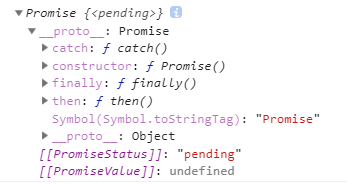
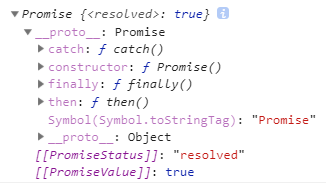
20190821

diff --git a/L-7 回调地狱与Promise.md b/L-7 回调地狱与Promise.md
@@ -131,10 +131,10 @@ sendAjax(url, data).then(function (res) {
 | Fulfilled | 任务执行完成并且成功的状态。    |
 | Rejected  | 任务完成并且失败的状态。       |
 
-* Promise的状态只可能从`Pending`状态转到`Fulfilled`状态或`Rejected`状态，且`不可逆向转换`。同时`Fulfilled`和`Rejected`状态也不能相互转换。
+* Promise的状态只可能从`pending`状态转到`fulfilled`状态或`rejected`状态，且`不可逆向转换`。同时`fulfilled`和`rejected`状态也不能相互转换。
 * Promise对象必须实现`then方法`，then是Promise规范的`核心`。
 * Promise的then方法`必须返回`一个Promise对象，同一个Promise对象可以调用`多个then方法`，并且回调的执行顺序跟它们的注册顺序一致。
-* then方法接收两个参数，分别为`成功回调`和`失败回调`。分别在`Padding转到Fulfilled`和`Padding转到Rejected`时调用。
+* then方法接收两个参数，分别为`成功回调`和`失败回调`。分别在`Padding转到fulfilled`和`Padding转到rejected`时调用。
 * 当使用了`catch方法`时，`then方法`可以不传`第二参数`，在当前链式操作中，`首个失败回调`会在catch中执行，并且中断后面的异步操作。
 
 ![avatar](/Promise/promises-流程图.png)
@@ -150,13 +150,106 @@ sendAjax(url, data).then(function (res) {
 
 ![avatar](/Promise/PromiseConstructor.png)
 
-> 所以需要使用new关键字实例化一个Promise实例。
+> 所以需要使用new关键字实例化一个Promise实例。并且传入一个匿名函数，匿名函数传入两个参数：`resolve（成功回调）`和`reject（失败回调）`。在函数体中进行逻辑判断，并使用resolve或reject触发对应的回调。
+
+ps：`resolve（成功回调）`和`reject（失败回调）`的名称可以自行定义。
 ```js
 let p = new Promise(function (resolve, reject) {
-    
+    if (true) {
+        resolve(true);
+    }else{
+        reject(false);
+    }
 });
 console.log(p);
 ```
-输出如下：
+上面就是Promise的简单使用，当使用resolve回调方法时，Promise对象的状态便切换到resolved（fulfilled，成功的状态）。输出如下：
 
 ![avatar](/Promise/PromiseObject.png)
+
+上面方法仍有局限性。比如通常封装ajax请求的方法，都需要向函数中传入url和数据集，实际效果如下：
+```js
+let url = 'http://127.0.0.1:8000/phpserver';
+let p = new Promise(function (resolve, reject) {
+    // 这里打印的url是直接访问父级作用域的变量
+    console.log(url);
+    $.ajax({
+        url: url,
+        type: 'POST',
+        dataType: "json",
+        data : {},
+        success: function(res){
+            resolve(res);
+        },
+        error: function (res) {
+            reject(res);
+        }
+    });
+});
+```
+上面这种方式传递参数，在函数体内直接访问父级作用域中的变量。十分不方便，而且容易因为父级作用域中的变量污染而影响到实际的逻辑处理。可以使用以下方式封装：
+```js
+function sendAjax(url) {
+    // 这里访问的url是调用函数时传入的参数
+    console.log(url);
+    // 使用return返回一个Promise实例，与直接对变量赋值Promise实例是一样的，外部使用变量接收即可。
+    return new Promise(function (resolve, reject) {
+        $.ajax({
+            url: url,
+            type: 'POST',
+            dataType: "json",
+            data : {},
+            success: function(res){
+                resolve(res);
+            },
+            error: function (res) {
+                reject(res);
+            }
+        });
+    });
+}
+let p = sendAjax('http://127.0.0.1:8000/phpserver');
+console.log(p);         // 这里打印Promise对象时，异步操作仍未完成，所以状态是pending。
+```
+![avatar](/Promise/1.png)
+
+* 下面的代码示例，都使用上面封装的这个发送ajax请求的Promise对象。
+### then方法
+> Promise.prototype.then方法接收两个回调函数作为参数，第一个为resolve（解决/成功）的回调，第二个为reject（拒绝/失败）的回调。两个参数都可不传，不传则不会执行对应的回调体。
+```js
+let p = sendAjax('http://127.0.0.1:8000/phpserver');
+p.then(function (cbData) {
+    console.log(cbData);
+}, function (cbData) {
+    console.log(cbData);
+});
+```
+解决（成功）的结果：
+
+![avatar](/Promise/2.png)
+
+模拟ajax请求失败时，拒绝（失败）的结果：
+
+![avatar](/Promise/3.png)
+
+如果不需要处理失败的回调，上面代码可以简化成如下：
+```js
+let p = sendAjax('http://127.0.0.1:8000/phpserver');
+p.then(function (cbData) {
+    console.log(cbData);
+});
+```
+### then方法的链式调用
+> 在Promise.prototype.then方法处理回调结束时，返回另一个Promise对象，这个对象可以调用下一个then方法，形成链式调用。如下：
+```js
+let p = sendAjax('http://127.0.0.1:8000/phpserver');
+p.then(function (cbData) {
+    console.log(cbData);
+    // 此处返回下一次ajax请求的Promise对象
+    return sendAjax('http://127.0.0.1:8000/phpserver');
+}).then(function (cbData) {
+    console.log(cbData);
+});
+```
+![avatar](/Promise/4.png)
+### catch方法
